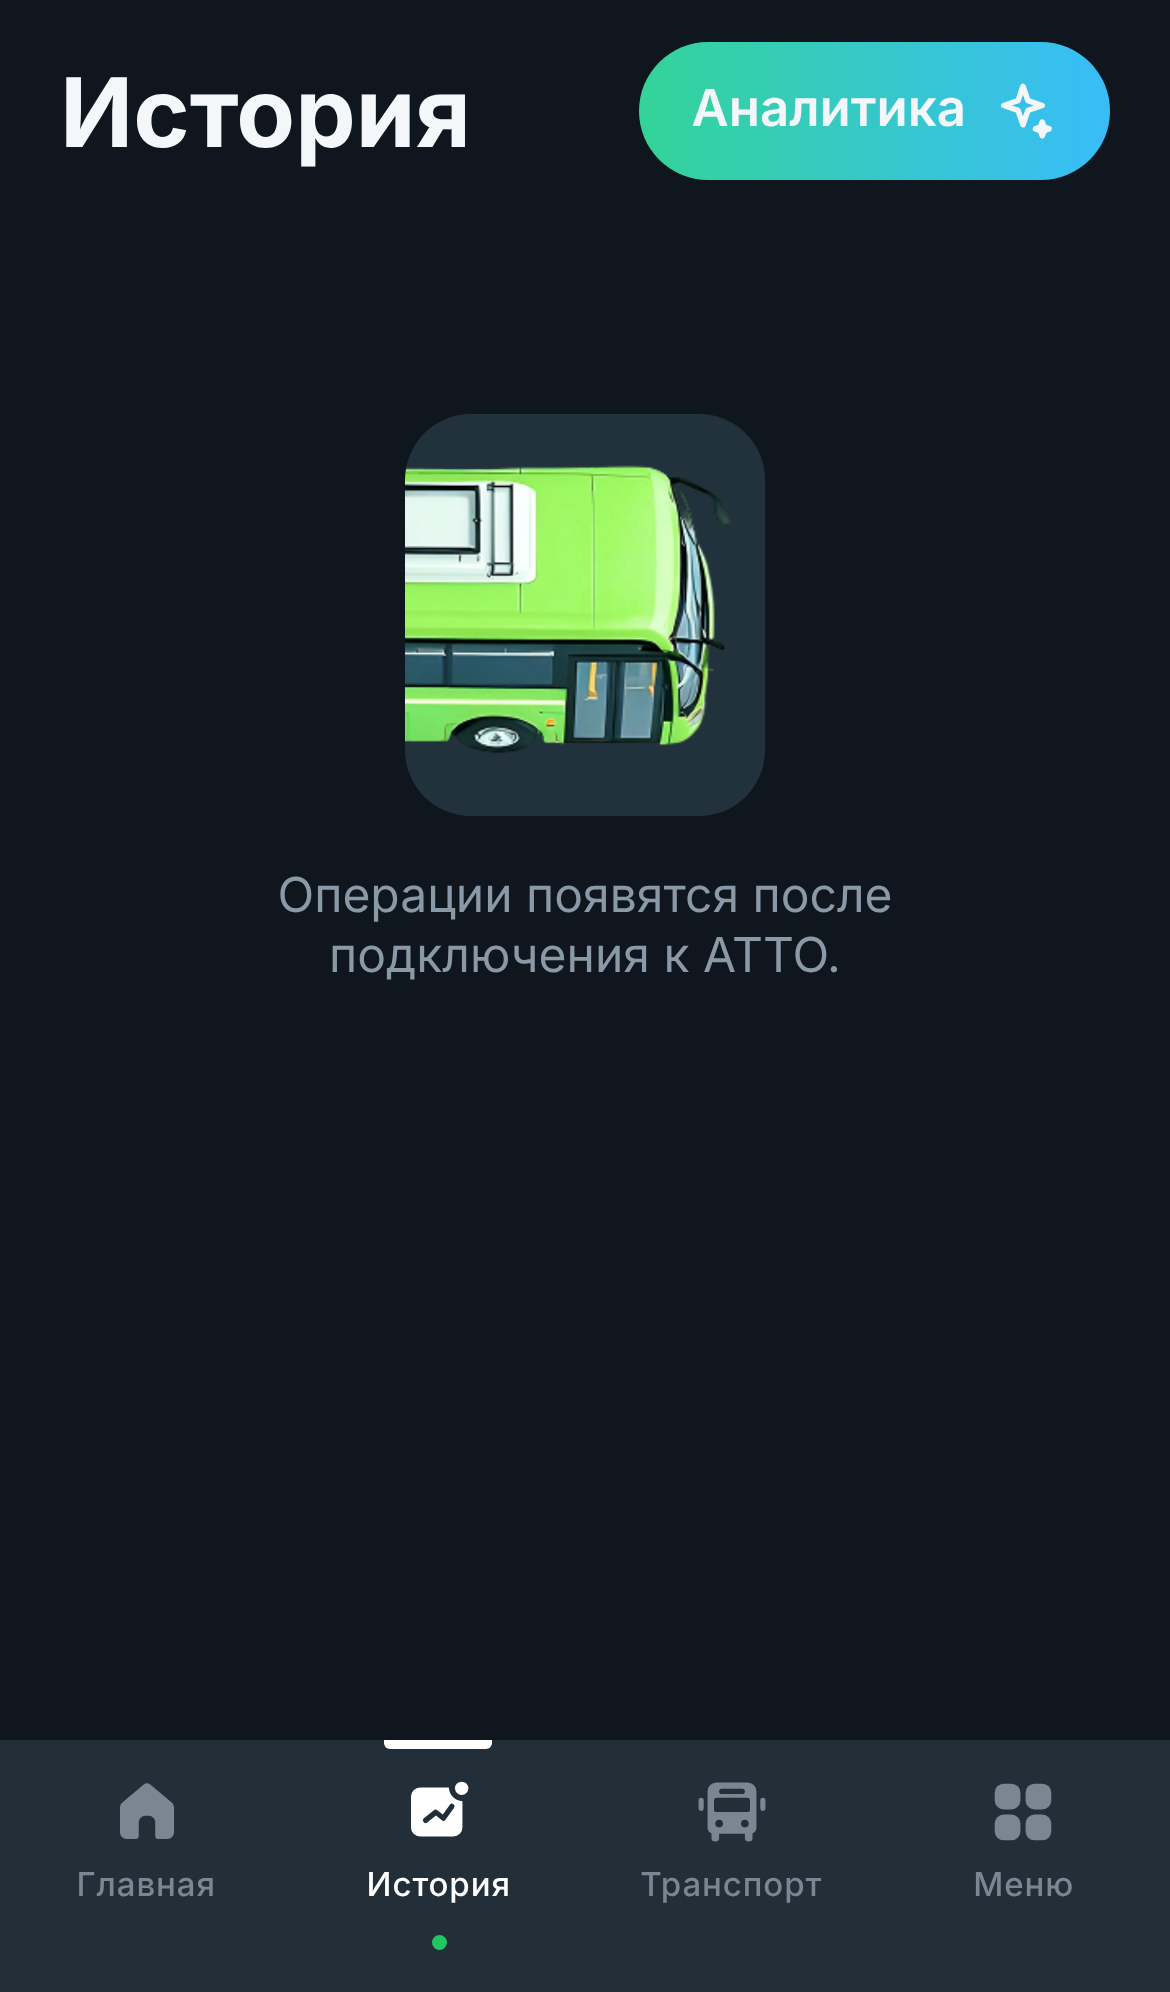
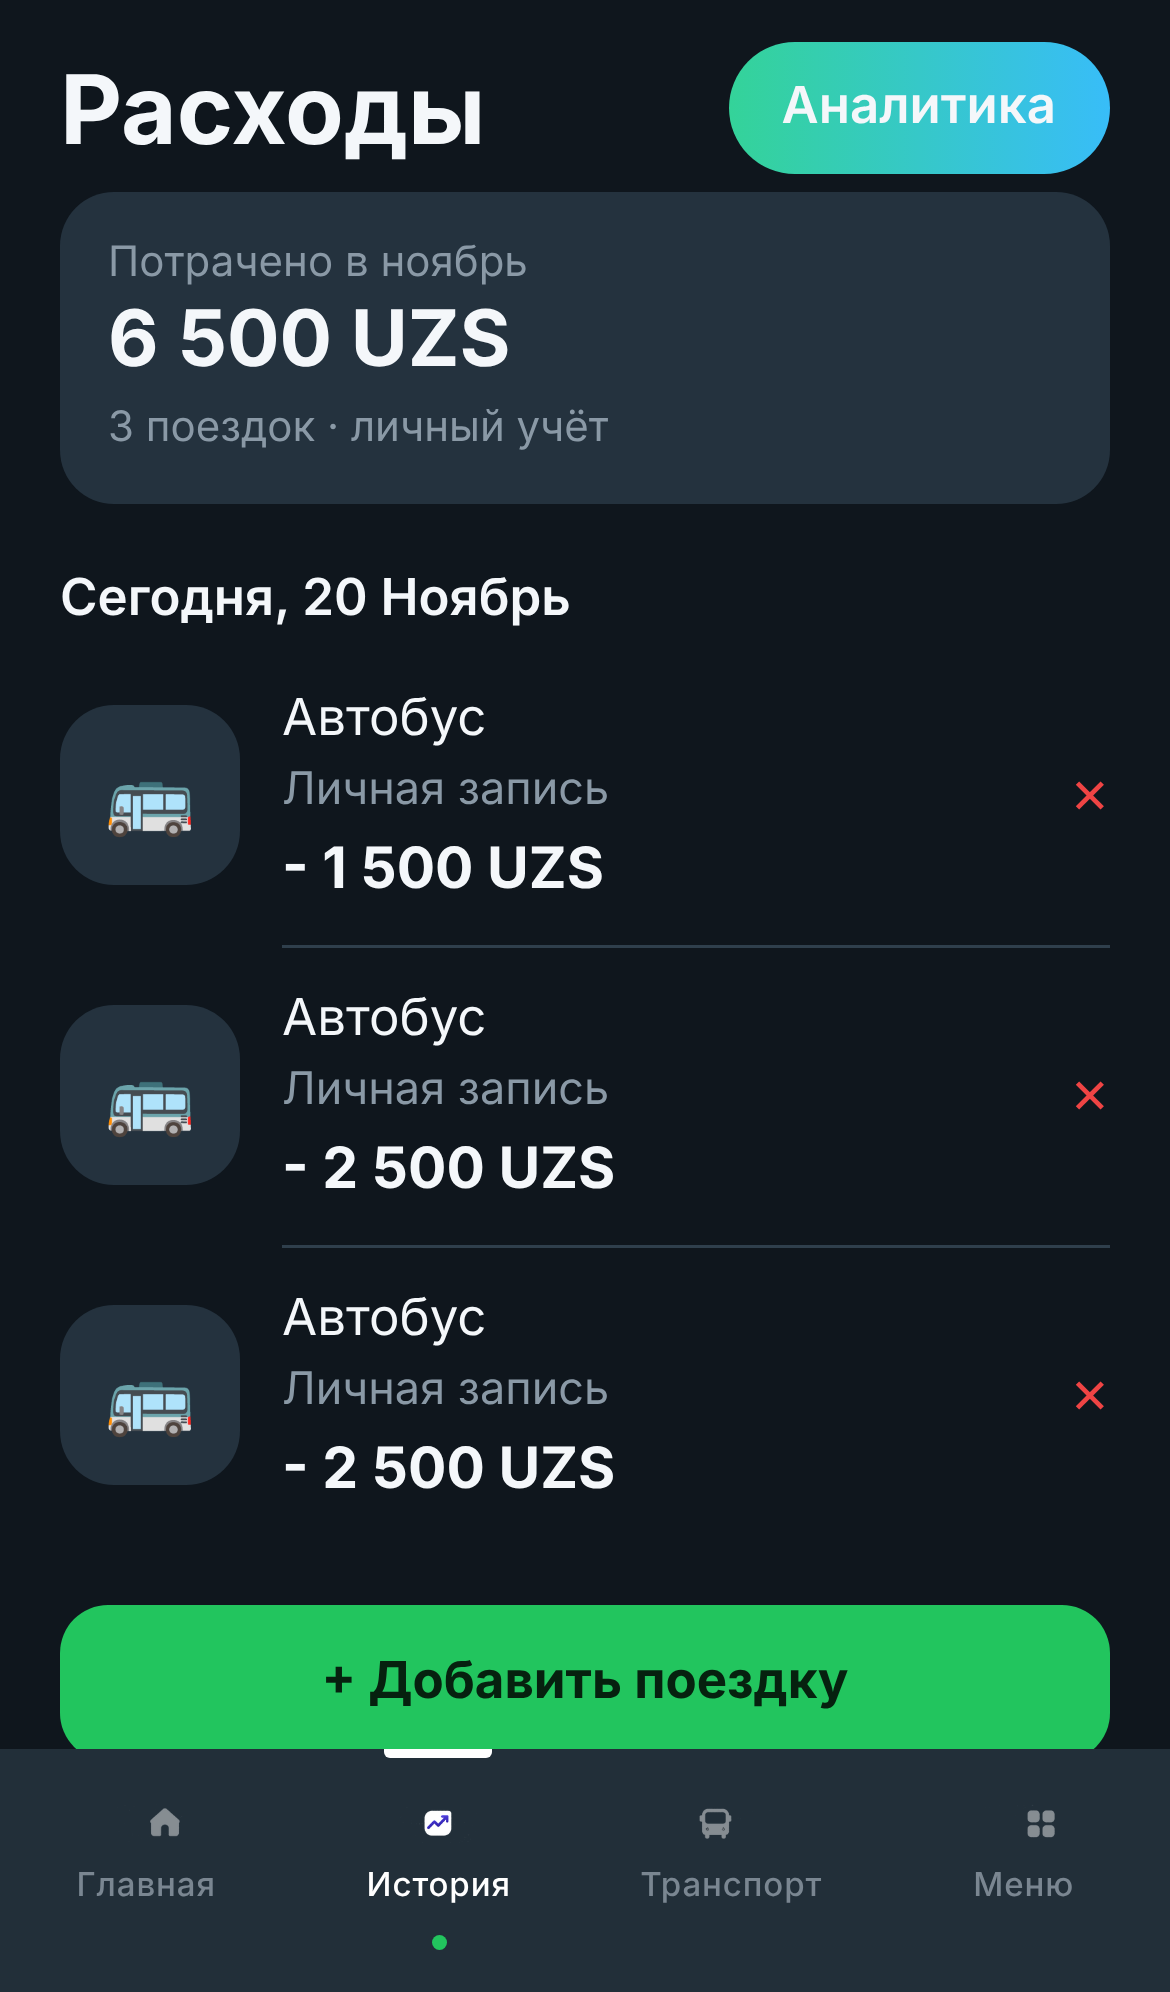
Konsept: shaxsiy xarajat hisoblagichi (qo'lda poyezd qo'shish, oylik yig'indi, analitika)
Claude-Session: https://claude.ai/code/session_01KVTEyQMYscgZHJL55JKxj1

diff --git a/src/concept/Expenses.jsx b/src/concept/Expenses.jsx
@@ -1,0 +1,142 @@
+// Shaxsiy xarajat hisoblagichi (konsept). Foydalanuvchi haqiqiy ATTO ilovasida
+// to'lagandan SO'NG, bu yerga o'zi qo'lda yozib qo'yadi va qancha sarflayotganini ko'radi.
+// Bu to'lov EMAS va chek EMAS — faqat shaxsiy daftar. ATTO serveriga ulanmaydi.
+import { useMemo, useState } from 'react';
+import { Sheet } from '../ui/common.jsx';
+
+const MONTHS = ['Январь', 'Февраль', 'Март', 'Апрель', 'Май', 'Июнь', 'Июль', 'Август', 'Сентябрь', 'Октябрь', 'Ноябрь', 'Декабрь'];
+const money = (n) => Math.abs(n).toLocaleString('ru-RU').replace(/,/g, ' ');
+const load = () => { try { return JSON.parse(localStorage.getItem('concept.expenses')) || []; } catch { return []; } };
+const store = (x) => { try { localStorage.setItem('concept.expenses', JSON.stringify(x)); } catch { /* ignore */ } };
+
+function dayLabel(key) {
+  const d = new Date(key + 'T00:00');
+  const today = new Date().toLocaleDateString('sv-SE');
+  const yest = new Date(Date.now() - 864e5).toLocaleDateString('sv-SE');
+  const l = `${d.getDate()} ${MONTHS[d.getMonth()]}`;
+  if (key === today) return `Сегодня, ${l}`;
+  if (key === yest) return `Вчера, ${l}`;
+  return l;
+}
+
+export default function Expenses() {
+  const [items, setItems] = useState(load);
+  const [adding, setAdding] = useState(false);
+  const [showStats, setShowStats] = useState(false);
+
+  const save = (list) => { setItems(list); store(list); };
+  const add = (e) => { save([...items, e].sort((a, b) => b.at.localeCompare(a.at))); setAdding(false); };
+  const del = (id) => save(items.filter((x) => x.id !== id));
+
+  const groups = useMemo(() => {
+    const g = new Map();
+    for (const t of items) {
+      const k = t.at.slice(0, 10);
+      if (!g.has(k)) g.set(k, []);
+      g.get(k).push(t);
+    }
+    return [...g];
+  }, [items]);
+
+  const month = new Date().toISOString().slice(0, 7);
+  const thisMonth = items.filter((t) => t.at.startsWith(month));
+  const spent = thisMonth.reduce((s, t) => s + t.amount, 0);
+
+  return (
+    <>
+      <div className="hist-head">
+        <h1>Расходы</h1>
+        <button className="grad-btn" onClick={() => setShowStats(true)}>Аналитика</button>
+      </div>
+      <div className="screen" style={{ paddingTop: 0 }}>
+        <div className="list-item" style={{ background: 'var(--surface-2)', display: 'block', marginBottom: 14 }}>
+          <div className="note">Потрачено в {MONTHS[Number(month.slice(5)) - 1].toLowerCase()}</div>
+          <b style={{ fontSize: 26 }}>{money(spent)} UZS</b>
+          <div className="note" style={{ marginTop: 4 }}>{thisMonth.length} поездок · личный учёт</div>
+        </div>
+
+        {!items.length && (
+          <p className="note" style={{ textAlign: 'center', padding: '30px 10px' }}>
+            Записей пока нет. После оплаты в приложении ATTO добавьте поездку сюда, чтобы следить за расходами.
+          </p>
+        )}
+
+        {groups.map(([day, list]) => (
+          <section key={day}>
+            <div className="day">{dayLabel(day)}</div>
+            {list.map((t) => (
+              <div className="tx" key={t.id}>
+                <div className="avatar" style={{ display: 'grid', placeItems: 'center', fontSize: 24 }}>{t.kind === 'metro' ? '🚇' : '🚌'}</div>
+                <div className="body">
+                  <div className="t1">{t.kind === 'metro' ? 'Метро' : 'Автобус'}{t.route ? ` № ${t.route}` : ''}</div>
+                  <div className="t2">Личная запись</div>
+                  <div className="amt">- {money(t.amount)} UZS</div>
+                </div>
+                <button className="side" onClick={() => del(t.id)} style={{ color: 'var(--danger)' }} aria-label="Удалить">✕</button>
+              </div>
+            ))}
+          </section>
+        ))}
+
+        <button className="btn" style={{ marginTop: 20 }} onClick={() => setAdding(true)}>+ Добавить поездку</button>
+      </div>
+
+      {adding && <AddExpense onAdd={add} onClose={() => setAdding(false)} />}
+      {showStats && <Stats items={thisMonth} onClose={() => setShowStats(false)} />}
+    </>
+  );
+}
+
+function AddExpense({ onAdd, onClose }) {
+  const [kind, setKind] = useState('bus');
+  const [amount, setAmount] = useState('2500');
+  const [route, setRoute] = useState('');
+  const [date, setDate] = useState(new Date().toISOString().slice(0, 10));
+  return (
+    <Sheet title="Добавить поездку" onClose={onClose}>
+      <label className="field"><span>Вид транспорта</span>
+        <select value={kind} onChange={(e) => setKind(e.target.value)}>
+          <option value="bus">Автобус</option><option value="metro">Метро</option>
+        </select>
+      </label>
+      <label className="field"><span>Сумма, UZS</span>
+        <input inputMode="numeric" value={amount} onChange={(e) => setAmount(e.target.value.replace(/\D/g, ''))} />
+      </label>
+      <label className="field"><span>Маршрут (необязательно)</span>
+        <input value={route} onChange={(e) => setRoute(e.target.value.slice(0, 10))} placeholder="101" />
+      </label>
+      <label className="field"><span>Дата</span>
+        <input type="date" value={date} max={new Date().toISOString().slice(0, 10)} onChange={(e) => setDate(e.target.value)} />
+      </label>
+      <p className="note">Это ваш личный учёт расходов, а не оплата. Оплата проезда проходит в приложении ATTO.</p>
+      <button className="btn" disabled={!amount} onClick={() => onAdd({
+        id: Math.random().toString(36).slice(2), kind, amount: Number(amount), route: route.trim(),
+        at: `${date}T${new Date().toTimeString().slice(0, 8)}`,
+      })}>Сохранить</button>
+    </Sheet>
+  );
+}
+
+function Stats({ items, onClose }) {
+  const spent = items.reduce((s, t) => s + t.amount, 0);
+  const bus = items.filter((t) => t.kind !== 'metro');
+  const metro = items.filter((t) => t.kind === 'metro');
+  const avg = items.length ? Math.round(spent / items.length) : 0;
+  const byWeekday = ['Пн', 'Вт', 'Ср', 'Чт', 'Пт', 'Сб', 'Вс'].map((d, i) => [d, items.filter((t) => (new Date(t.at).getDay() + 6) % 7 === i).length]);
+  const maxW = Math.max(1, ...byWeekday.map(([, n]) => n));
+  const row = (k, l) => (
+    <div className="bar"><span>{k}</span><div className="track"><div className="fill" style={{ width: `${items.length ? (l / items.length) * 100 : 0}%` }} /></div><span>{l}</span></div>
+  );
+  return (
+    <Sheet title="Аналитика расходов" onClose={onClose}>
+      <div className="grid2" style={{ marginBottom: 18 }}>
+        <div className="list-item" style={{ display: 'block' }}><div className="note">Потрачено</div><b style={{ fontSize: 22 }}>{money(spent)}</b></div>
+        <div className="list-item" style={{ display: 'block' }}><div className="note">Поездок</div><b style={{ fontSize: 22 }}>{items.length}</b></div>
+        <div className="list-item" style={{ display: 'block' }}><div className="note">Средний чек</div><b style={{ fontSize: 22 }}>{money(avg)}</b></div>
+        <div className="list-item" style={{ display: 'block' }}><div className="note">Автобус / Метро</div><b style={{ fontSize: 22 }}>{bus.length} / {metro.length}</b></div>
+      </div>
+      <div className="note" style={{ marginBottom: 8 }}>Поездки по дням недели</div>
+      <div className="bars">{byWeekday.map(([d, n]) => row(d, n))}</div>
+    </Sheet>
+  );
+}

diff --git a/src/concept/ConceptApp.jsx b/src/concept/ConceptApp.jsx
@@ -5,6 +5,7 @@ import { Icon } from '../ui/icons.jsx';
 import { NavIcon } from '../ui/navicons.jsx';
 import { Sheet } from '../ui/common.jsx';
 import VirtualCard from './VirtualCard.jsx';
+import Expenses from './Expenses.jsx';
 
 const img = (n) => `/concept/${n}.png`;
 
@@ -139,20 +140,7 @@ export default function ConceptApp() {
         </>
       )}
 
-      {page === 'history' && (
-        <>
-          <div className="hist-head">
-            <h1>История</h1>
-            <button className="grad-btn" onClick={soon('Аналитика')}>Аналитика <Icon name="sparkle" size={22} /></button>
-          </div>
-          <div className="screen">
-            <div className="empty">
-              <img src={img('transport_bus')} alt="" style={{ width: 120, borderRadius: 22, marginBottom: 12 }} />
-              <div>Операции появятся после подключения к ATTO.</div>
-            </div>
-          </div>
-        </>
-      )}
+      {page === 'history' && <Expenses />}
 
       {page === 'menu' && (
         <div className="screen">
